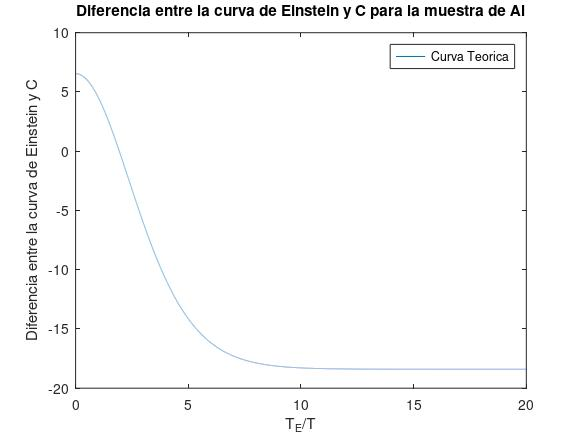
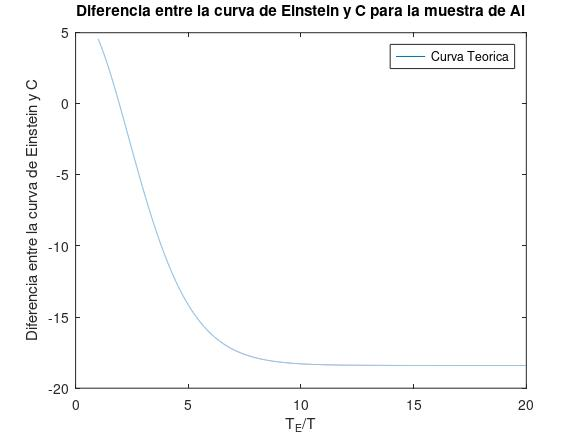
Se adicionan codigos usados para la practica 4 EFM. Calor especifico molar a bajas temperaturas. Con esto queda concluida la practica

diff --git a/Electronica Analogica/Entrega4/diodozener/zener.m b/Electronica Analogica/Entrega4/diodozener/zener.m
@@ -1,0 +1,77 @@
+clear all; close all
+VD = [-7.06	-7.05	-7.02	-7	-6.98	-6.95	-6.9	-6.91	-6.86	-6.8	-6.78	-6.68	-6.65	-6.59	-6.51	-6.4	-6.21	-5.85	-5.4	-4.5	-3.61	-2.71	-1.8	-0.92	0	0.1	0.2	0.3	0.41	0.5	0.61	0.65	0.69	0.71	0.72	0.73	0.73	0.74	0.75	0.75	0.76	0.762	0.767	0.772	0.776	0.779	0.786	0.789];
+I_D = [-32.9	-31.4	-29.7	-27.6	-26.1	-24.2	-20.3	-22.1	-18.5	-16.8	-15.1	-13.2	-11.4	-9.6	-7.8	-5.9	-3.6	-1.3	-0.5	0	0	0	0	0	0	0	0	0	0	0	0.5	1.3	3.6	5.9	7.8	9.6	11.4	13.2	15.1	16.8	18.5	20.3	22.1	25.7	29.1	31.2	32.9	34.7]; 
+
+i = 1; x(1) = 0; y(1) = 0; x2(1) = 0; y2(1) = 0;
+npend1 = 11; %%%%%%%%%%%%%%%%%%%%% este es el numero de datos para la recta en v pos - 1
+x0n = 11; %%%%%%%%%%%%%%%%%%%%% este es el numero de datos para la recta en v neg
+x0 = length(VD)-npend1; 
+x2 = VD(1:x0n); y2 = I_D(1:x0n); x = VD(x0:length(VD)); y = I_D(x0:length(VD));
+
+%%%%%%%%%%%%%%%%%%%%%%%%%%%%%%%%%%%%%%%%%%%%%Minimos Cuadrados voltaje directo%%%%%%%%%%%%%%%%%%%%%%%%%%%%%%%%%%%%%%%%%%%%%%%%
+size(x)
+size(y)
+N = size(x)(2)
+format long
+
+sxy = sum(x.*y); sxx = sum(x.*x); syy = sum(y.*y); sx = sum(x); sy = sum(y);
+a = (((N)*(sxy))-((sx)*(sy)))/(((N)*(sxx))-((sx)*(sx)))
+b = (((sxx)*(sy))-((sx)*(sxy)))/(((N)*(sxx))-((sx)*(sx)))
+e = (y-((a*x)+b)).^2; sei = sum(e);
+incertidumbrea=sqrt((sei)/(N-2))*sqrt((N)/(((N)*(sxx))-((sx)*(sx))))
+incertidumbreb=sqrt((sei)/(N-2))*sqrt((sxx)/(((N)*(sxx))-((sx)*(sx))))
+r = (((N)*(sxy))-((sx)*(sy)))/(sqrt(((N)*(sxx))-((sx)*(sx)))*sqrt(((N)*(syy))-((sy)*(sy))))
+
+%%%%%%%%%%%%%%%%%%%%%%%%%%%%%%%%%%%%%%%%%%%%%Minimos Cuadrados voltaje inverso%%%%%%%%%%%%%%%%%%%%%%%%%%%%%%%%%%%%%%%%%%%%%%%%
+size(x2)
+size(y2)
+N2 = size(x2)(2)
+
+sx2y2 = sum(x2.*y2); sx2x2 = sum(x2.*x2); sy2y2 = sum(y2.*y2); sx2 = sum(x2); sy2 = sum(y2);
+a2 = (((N2)*(sx2y2))-((sx2)*(sy2)))/(((N2)*(sx2x2))-((sx2)*(sx2)))
+b2 = (((sx2x2)*(sy2))-((sx2)*(sx2y2)))/(((N2)*(sx2x2))-((sx2)*(sx2)))
+e2 = (y2-((a2*x2)+b2)).^2; sei2 = sum(e2);
+iN2certidumbrea2=sqrt((sei2)/(N2-2))*sqrt((N2)/(((N2)*(sx2x2))-((sx2)*(sx2))))
+iN2certidumbreb2=sqrt((sei2)/(N2-2))*sqrt((sx2x2)/(((N2)*(sx2x2))-((sx2)*(sx2))))
+r2 = (((N2)*(sx2y2))-((sx2)*(sy2)))/(sqrt(((N2)*(sx2x2))-((sx2)*(sx2)))*sqrt(((N2)*(sy2y2))-((sy2)*(sy2))))
+
+%%%%%%%%%%%%%%%%%%%%%%%%%%%%%%%%%%%%%%%%%%%%%%%%%%%%%%%%%%%%%%%%%%%%%%%%%%%%%%%%%%%%%%%%%%%%%
+xx = min(x):0.0001:max(x); yy = a.*xx+b; x2x2 = min(x2):0.0001:max(x2); y2y2 = a2.*x2x2+b2; %vectores para graficar la recta resultante del ajuste
+
+Rd = 1/a
+deltaRd = (Rd^2)*incertidumbrea
+Vu = -b/a
+deltaVu = Vu*sqrt((incertidumbrea/a)^2+(incertidumbreb/b)^2)
+
+Rd2 = 1/a2
+deltaRd2 = (Rd2^2)*iN2certidumbrea2
+Vu2 = -b2/a2
+deltaVu2 = abs(Vu2)*sqrt((iN2certidumbrea2/a2)^2+(iN2certidumbreb2/b2)^2) %calculo de la resitencia dinamica Rd, voltaje umbral Vu, resitencia zener Rd2 y voltaje zener Vu2.
+
+%%%%%%%%%%%%%%%%%%%%%%Graficas%%%%%%%%%%%%%%%%%%%%%%%%%
+
+figure (1);clf;
+plot (VD,I_D,'b*'); xlabel('VD[V]');ylabel('I_{D}[A]'); title('Relacion entre corriente y voltaje para un diodo Zener');
+legend('Datos experimentales','Location','northwest'); grid on; 
+print -djpeg -r100 grafica_zener.jpg
+
+figure(2); clf;
+plot(x,y,'b*',xx,yy,'-k'); legend('Datos experimentales','Ajuste - MMC','Location','northwest'); xlabel('VD[V]');ylabel('I_{D}[A]');
+title('Region  de voltaje directo con pendiente estable para un diodo Zener');
+text (0.735, 20, strcat ('\fontsize{11} I = (496\pm30) V-(302\pm23)\rightarrow'));
+print -djpeg -r100 grafica_ajustependzenpos.jpg
+
+figure(3); clf;
+plot(x2,y2,'b*',x2x2,y2y2,'-k'); legend('Datos experimentales','Ajuste - MMC','Location','northwest'); xlabel('VD[V]');ylabel('I_{D}[A]');
+title('Region  de voltaje inverso con pendiente estable para un diodo Zener')
+text (-6.9, -23, strcat ('\fontsize{11}\leftarrow I = (62.0\pm3.1) V+(406\pm21)'));
+print -djpeg -r100 grafica_ajustependzenneg.jpg
+
+%%%%%%%%%%%%%%%%%%%%%%%%%%%%%%%%%%%%%%%%%%%%%%%
+corte = (-b)/(a); mx = (max(I_D)-b)/(a); xx2 = corte:0.01:mx; yy2 = a.*xx2+b; 
+corte2 = (-b2)/(a2); mx2 = (min(I_D)-b2)/(a2); x2x22 = mx2:0.01:corte2; y2y22 = a2.*x2x22+b2; %vectores para graficar las rectas de los ajustes
+
+figure(4); clf;
+plot(VD,I_D,'b.',x2x22,y2y22,'-r',xx2,yy2,'-m'); xlabel('VD[V]'); ylabel('I_{D}[A]'); title('Comparacion ajustes voltaje inverso y voltaje directo para un diodo Zener');
+legend('Datos experimentales','Ajuste - MMC voltaje inverso','Ajuste - MMC voltaje directo','Location','northwest'); grid on
+print -djpeg -r100 grafica_zenercon2ajustes.jpg 

diff --git a/EFM20212/4/Indio/capacidadcalorificamolarindio.m b/EFM20212/4/Indio/capacidadcalorificamolarindio.m
@@ -58,9 +58,12 @@ xlabel('Tiempo (s)'); ylabel('Masa total, M(g)'); legend('Datos Experimentales')
 subplot(3,1,3)
 plot (x2,y2,'g*'); axis([0 100 124 131]) %%%%%%% <----------- SELECCIONAR rangos que concuerden con la primer grafica subplot(3,1,1)
 xlabel('Tiempo (s)'); ylabel('Masa total, M(g)'); legend('Datos Experimentales')
+print -djpeg -r100 calormuestraindio1.jpg
 
 figure(2);clf;
 hold on;
 plot(t,m,'k.',xx2,yy2,'m--','linewidth',3,xx3,yy3,'m--','linewidth',3,xxinf,yyinf,'k',xxmed,yymed,'r',xxsup,yysup,'k',xx1,yy1,'m-','linewidth',3,xx4,yy4,'m-','linewidth',3)
-xlabel('Tiempo (s)'); ylabel('Masa total, M(g)'); legend('Datos Experimentales','Extrapolacion recta temperatura ambiente','Extrapolacion recta temperatura = 77K','Tiempo en el que se introduce la muestra','T_{med}','Tiempo en el que la muestra alcanza el equilibrio termico')
+xlabel('Tiempo (s)'); ylabel('Masa total, M(g)'); legend('Datos Experimentales','Extrapolacion recta superior','Extrapolacion recta inferior','T_{1}','T_{med}','T_{3}')
+title('Extrapolacion de rectas obtenidas de MC y \Delta{M} para muestra de Indio')
 hold off;
+print -djpeg -r100 calormuestraindio2.jpg

diff --git a/EFM20212/4/Plomo/capacidadcalorificamolarplomo.m b/EFM20212/4/Plomo/capacidadcalorificamolarplomo.m
@@ -58,9 +58,12 @@ xlabel('Tiempo (s)'); ylabel('Masa total, M(g)'); legend('Datos Experimentales')
 subplot(3,1,3)
 plot (x2,y2,'g*'); axis([0 250 195 220]) %%%%%%% <----------- SELECCIONAR rangos que concuerden con la primer grafica subplot(3,1,1)
 xlabel('Tiempo (s)'); ylabel('Masa total, M(g)'); legend('Datos Experimentales')
+print -djpeg -r100 calormuestraplomo1.jpg
 
 figure(2);clf;
 hold on;
 plot(t,m,'k.',xx2,yy2,'m--','linewidth',3,xx3,yy3,'m--','linewidth',3,xxinf,yyinf,'k',xxmed,yymed,'r',xxsup,yysup,'k',xx1,yy1,'m-','linewidth',3,xx4,yy4,'m-','linewidth',3)
-xlabel('Tiempo (s)'); ylabel('Masa total, M(g)'); legend('Datos Experimentales','Extrapolacion recta temperatura ambiente','Extrapolacion recta temperatura = 77K','Tiempo en el que se introduce la muestra','T_{med}','Tiempo en el que la muestra alcanza el equilibrio termico')
+xlabel('Tiempo (s)'); ylabel('Masa total, M(g)'); legend('Datos Experimentales','Extrapolacion recta superior','Extrapolacion recta inferior','T_{1}','T_{med}','T_{3}')
+title('Extrapolacion de rectas obtenidas de MC y \Delta{M} para muestra de Plomo')
 hold off;
+print -djpeg -r100 calormuestraplomo2.jpg

diff --git a/EFM20212/4/Iman/capacidadcalorificaiman.m b/EFM20212/4/Iman/capacidadcalorificaiman.m
@@ -76,9 +76,12 @@ xlabel('Tiempo (s)'); ylabel('Masa total, M(g)'); legend('Datos Experimentales')
 subplot(3,1,3)
 plot (x2,y2,'g*'); axis([0 250 130 160]) %%%%%%% <----------- SELECCIONAR rangos que concuerden con la primer grafica subplot(3,1,1)
 xlabel('Tiempo (s)'); ylabel('Masa total, M(g)'); legend('Datos Experimentales')
+print -djpeg -r100 calormuestraiman1.jpg
 
 figure(2);clf;
 hold on;
 plot(t,m,'k.',xx2,yy2,'m--','linewidth',3,xx3,yy3,'m--','linewidth',3,xxinf,yyinf,'k',xxmed,yymed,'r',xxsup,yysup,'k',xx1,yy1,'m-','linewidth',3,xx4,yy4,'m-','linewidth',3)
-xlabel('Tiempo (s)'); ylabel('Masa total, M(g)'); legend('Datos Experimentales','Extrapolacion recta temperatura ambiente','Extrapolacion recta temperatura = 77K','Tiempo en el que se introduce la muestra','T_{med}','Tiempo en el que la muestra alcanza el equilibrio termico')
+xlabel('Tiempo (s)'); ylabel('Masa total, M(g)'); legend('Datos Experimentales','Extrapolacion recta superior','Extrapolacion recta inferior','T_{1}','T_{med}','T_{3}')
+title('Extrapolacion de rectas obtenidas de MC y \Delta{M} para muestra de Iman')
 hold off;
+print -djpeg -r100 calormuestraiman2.jpg

diff --git a/Herramientas Computacionales/clase3011/temporal6.m b/Herramientas Computacionales/clase3011/temporal6.m
@@ -1,0 +1,19 @@
+clear all; close all;
+h = 0.02; tf= 0.5; N = ceil(tf/h);
+p1 = 10; p2 = 8/3; p3 = 28;
+x0 = 1.001; v0 = 1.001; w0 = 1.001; y0 = [x0 v0 w0]';
+dynamicsLorenz = @(t,y) fmotionLorenz(t,y,p1,p2,p3);
+y_out = zeros(N,3); t = zeros(N,1); y_out(1,:) = y0';
+for i = 1:N
+  [t(i+1), y_out(i+1,:)] = int_rk4(h, dynamicsLorenz, t(i), y_out(i,:)');
+  figure(1); clf;
+  x1(i) = y_out(i+1, 1,:); y1(i) = y_out(i+1, 2,:); w1(i) = y_out(i+1, 3,:);
+  plot3(x1,y1,w1,'-bo',...
+  'linewidth',2,...
+  'MarkerEdgeColor','k',...
+  'MarkerFaceColor',[.49 1 0.63],...
+  'MarkerSize',3);grid on; axis off; view(i*pi/20,i*pi/10);drawnow;
+ % Impresion cadena
+  fnombre = strcat('Lorenz',num2str(t(i),'%0.2i'),'.jpeg') 
+  eval(['print -djpeg ' fnombre ' -r100'])
+end

diff --git a/EFM20212/4/Aluminio/temperaturaaluminio.m b/EFM20212/4/Aluminio/temperaturaaluminio.m
@@ -1,5 +1,5 @@
 clear all; close all;
-x = 0:0.001:20; 
+x = 1:0.001:20; 
 R = 8.31446261815324; T = 185; % constante de los gases ideales R y temperatura promedio
 c = 18.4; % <---------- SELECCIONAR calor especifico molar 
 y =3*R*(x.^2).*((exp(x))./((exp(x)-1).^2)) - c;
@@ -10,6 +10,7 @@ while (y(i)>0)
   mj0(i) = x(i);
   i = i+1;
 end
+
 x(i-1)
 y(i-1)
 x(i)

diff --git a/EFM20212/4/Plomo/temperaturaPlomo.m b/EFM20212/4/Plomo/temperaturaPlomo.m
@@ -1,5 +1,5 @@
 clear all; close all;
-x = 1:0.001:20; 
+x = -20:0.01:20; 
 R = 8.31446261815324; T = 185; % constante de los gases ideales R y temperatura promedio
 c = 25.996; % <---------- SELECCIONAR calor especifico molar 
 y =3*R*(x.^2).*((exp(x))./((exp(x)-1).^2)) - c;

diff --git a/EFM20212/4/Hierro/temperaturahierro.m b/EFM20212/4/Hierro/temperaturahierro.m
@@ -1,5 +1,5 @@
 clear all; close all;
-x = 0:0.001:20; 
+x = 1:0.001:20; 
 R = 8.31446261815324; T = 185; % constante de los gases ideales R y temperatura promedio
 c = 22.3; % <---------- SELECCIONAR calor especifico molar 
 y =3*R*(x.^2).*((exp(x))./((exp(x)-1).^2)) - c;

diff --git a/EFM20212/4/Cadmio/temperaturacadmio.m b/EFM20212/4/Cadmio/temperaturacadmio.m
@@ -1,5 +1,5 @@
 clear all; close all;
-x = 0:0.001:20; 
+x = 1:0.001:20; 
 R = 8.31446261815324; T = 185; % constante de los gases ideales R y temperatura promedio
 c = 13; % <---------- SELECCIONAR calor especifico molar 
 y =3*R*(x.^2).*((exp(x))./((exp(x)-1).^2)) - c;

diff --git a/EFM20212/4/Cobre/temperaturacobre.m b/EFM20212/4/Cobre/temperaturacobre.m
@@ -1,5 +1,5 @@
 clear all; close all;
-x = 0:0.001:20; 
+x = 1:0.001:20; 
 R = 8.31446261815324; T = 185; % constante de los gases ideales R y temperatura promedio
 c = 19; % <---------- SELECCIONAR calor especifico molar 
 y =3*R*(x.^2).*((exp(x))./((exp(x)-1).^2)) - c;

diff --git a/Herramientas Computacionales/clase3011/int_rk4.m b/Herramientas Computacionales/clase3011/int_rk4.m
@@ -1,0 +1,8 @@
+function [tout, xout] = int_rk4(dt,dx,t,x)
+tout = t + dt;
+k1  = dx(t, x);              
+k2 = dx(t + dt/2, x + (dt/2)*k1); 
+k3 = dx(t + (dt/2),x + (dt/2)*k2);    
+k4 = dt*dx(tout,x + dt*k3);
+xout = x + dt*(k1 + 2*k2 + 2*k3 + k4)/6;
+end

diff --git a/Herramientas Computacionales/clase3011/fmotionLorenz.m b/Herramientas Computacionales/clase3011/fmotionLorenz.m
@@ -1,0 +1,6 @@
+function dy = fmotionLorenz(t,y,p1,p2,p3)
+  dy = zeros(3,1);
+  dy(1) = - p1*y(1) + p1*y(2);
+  dy(2) =  p3*y(1) - y(2) - y(1)*y(3);
+  dy(3) = - p2*y(3) + y(1)*y(2);
+end
